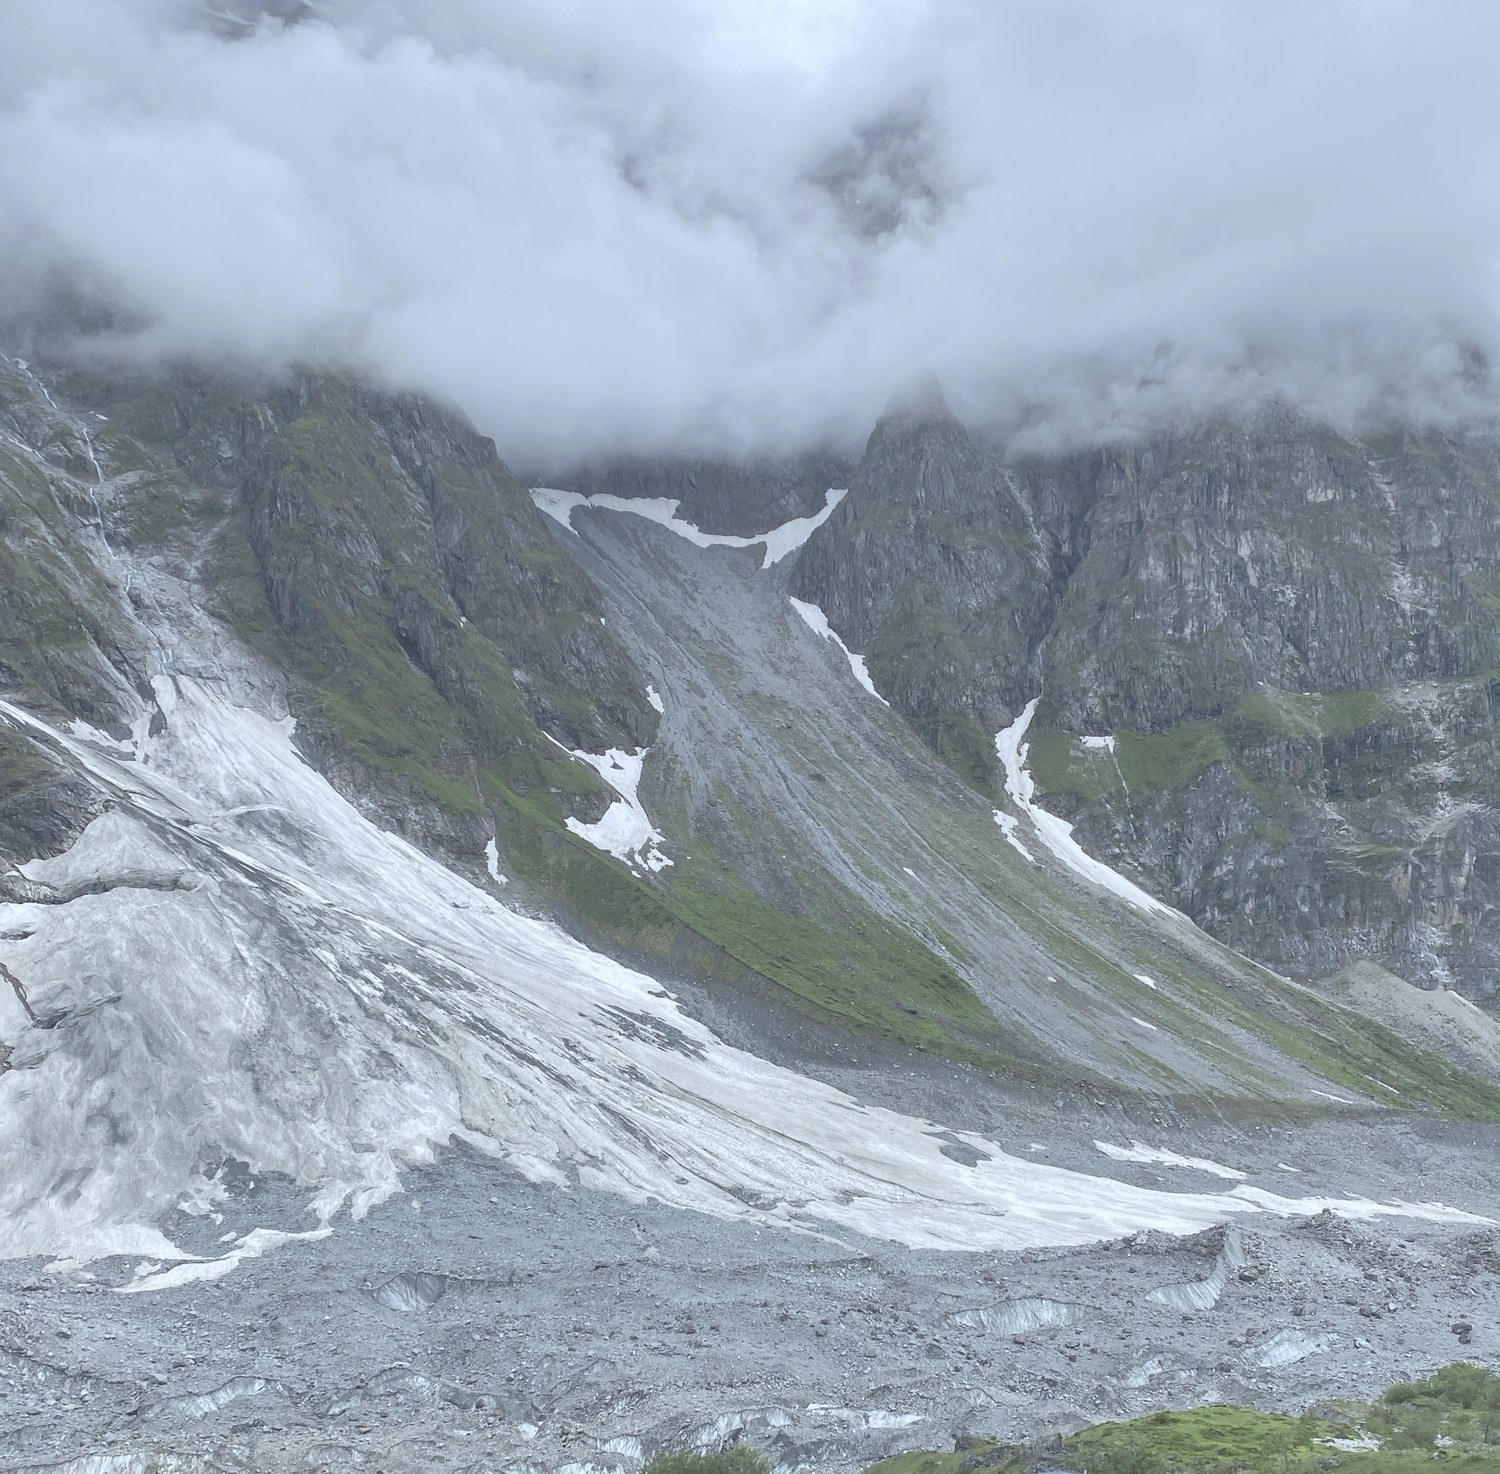
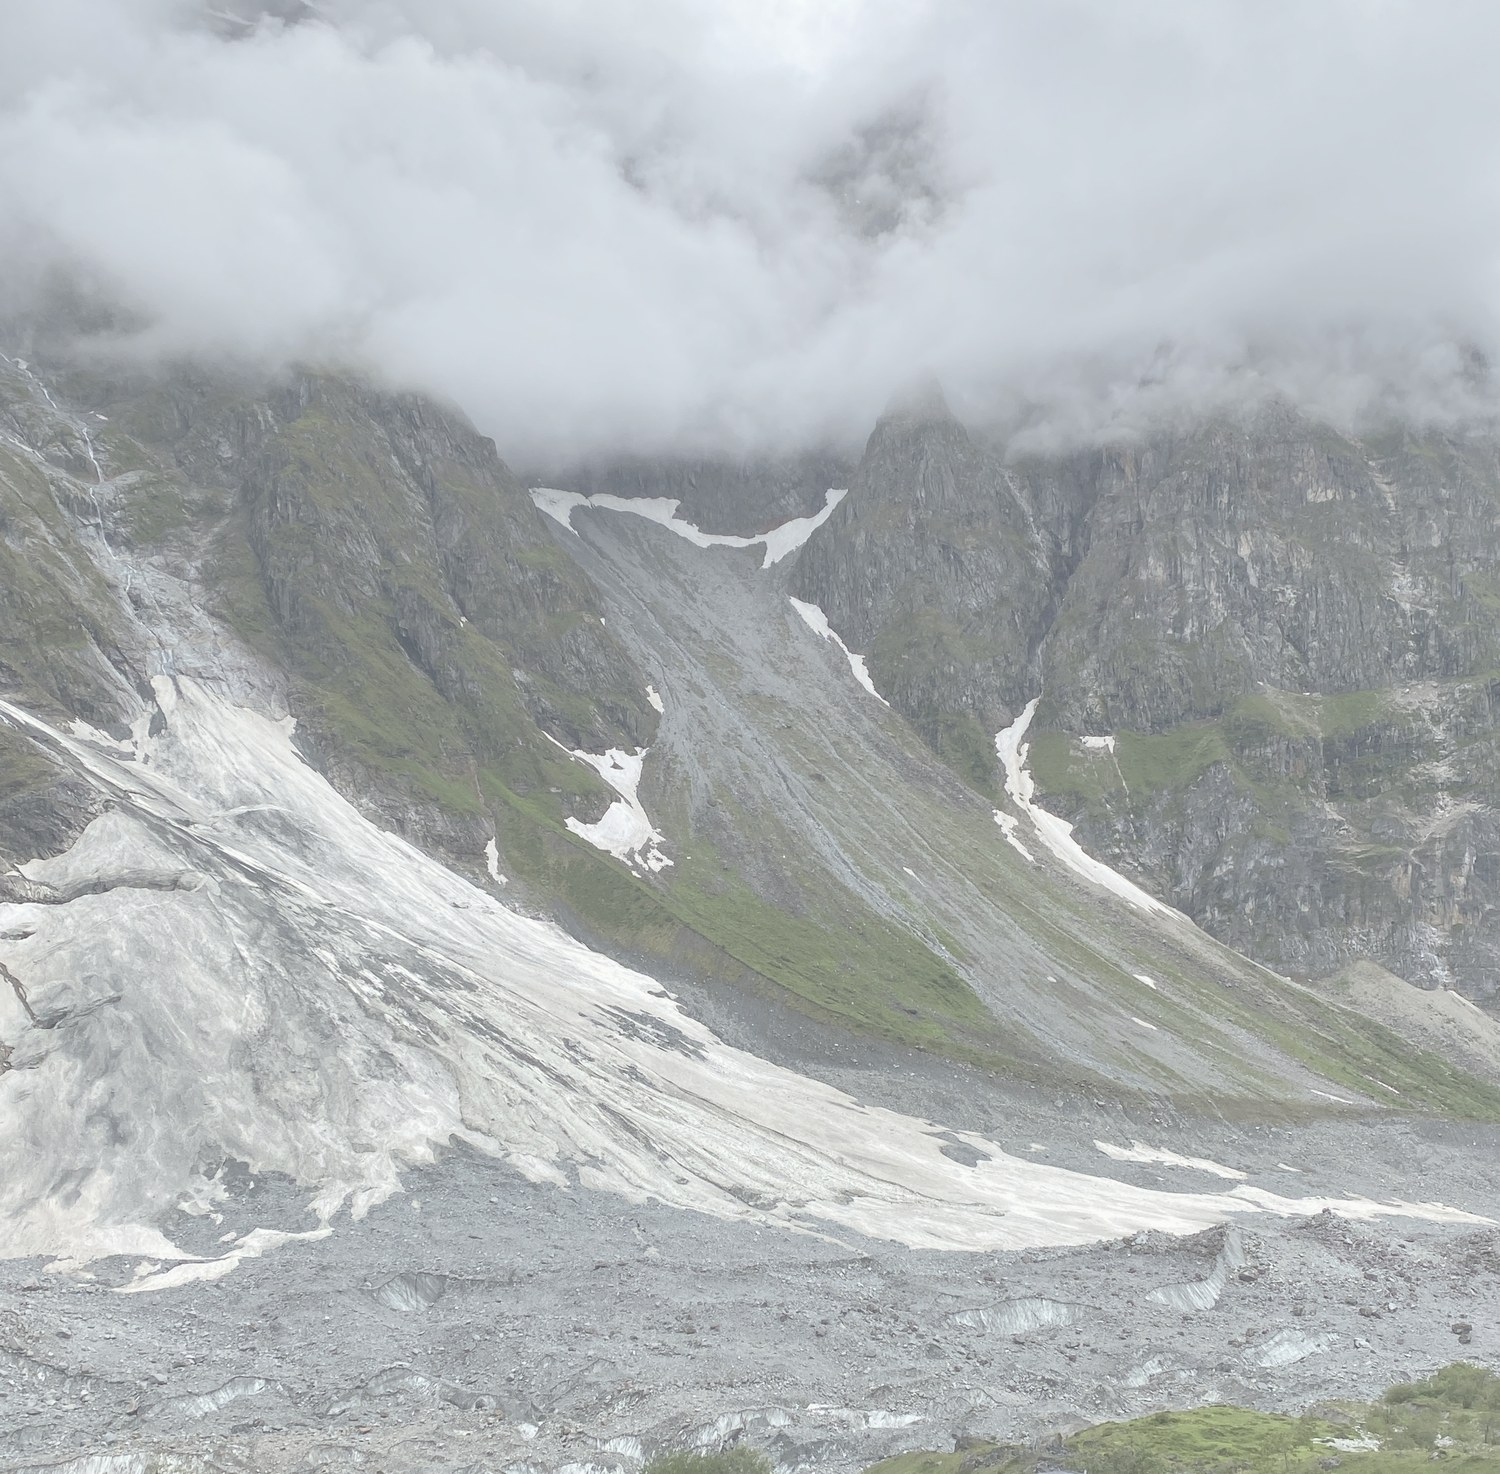
背景2.jpg回到原图色调，仅纸色淡化36%，白罩转回暖纸色

diff --git a/华南文研/index.html b/华南文研/index.html
@@ -27,7 +27,7 @@ a{color:inherit;text-decoration:none}
 
 /* ===== 顶部 ===== */
 .hero{position:relative;overflow:hidden;padding:34px 20px 30px;text-align:center;
-  background:linear-gradient(180deg,rgba(240,246,247,.14) 0%,rgba(242,246,247,.55) 48%,rgba(249,250,250,.92) 82%,#FBF8F1 100%),
+  background:linear-gradient(180deg,rgba(251,248,241,.22) 0%,rgba(251,248,241,.58) 46%,rgba(251,248,241,.88) 78%,#FBF8F1 100%),
     url('assets/bg_2.jpg') center 32% / cover no-repeat}
 .hero::before{content:"";position:absolute;left:-30%;top:-40%;width:160%;height:120%;
   background:radial-gradient(ellipse at 30% 20%,rgba(169,188,176,.35),rgba(169,188,176,0) 62%);
